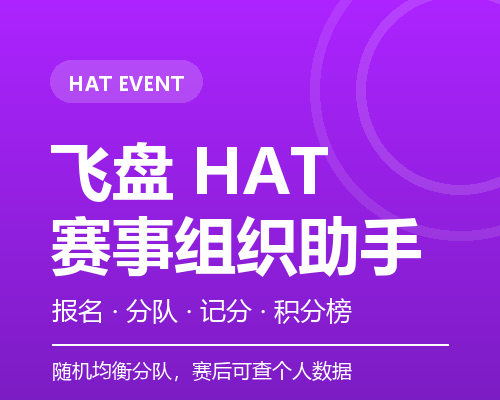
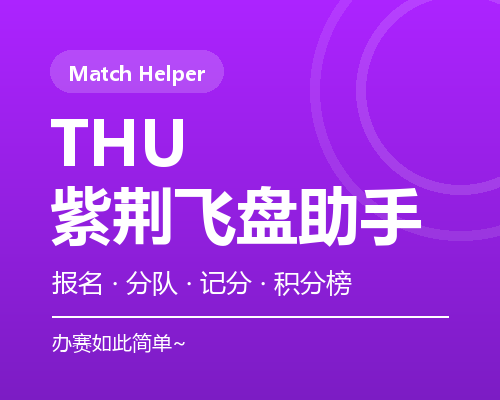
chore(share): 更新分享封面文案为「THU 紫荆飞盘助手」

Changed region(s): [[0.09, 0.3, 0.9, 0.96], [0.09, 0.12, 0.45, 0.27], [0.39, 0.9, 0.72, 0.96]]

diff --git a/scripts/make-share-image.py b/scripts/make-share-image.py
@@ -51,9 +51,9 @@ tag_font = ImageFont.truetype(BOLD, 20)
 small_font = ImageFont.truetype(REGULAR, 20)
 
 # 左上角小标签：白色半透明胶囊 + 白字
-tag = "HAT EVENT"
+tag = "Match Helper"
 tw = draw.textlength(tag, font=tag_font)
-pill = [50, 60, 50 + tw + 36, 60 + 42]
+pill = [50, 50, 50 + tw + 36, 50 + 42]
 layer, d = overlay()
 d.rounded_rectangle(pill, radius=21, fill=(255, 255, 255, 46))
 img = Image.alpha_composite(img, layer)
@@ -61,15 +61,15 @@ draw = ImageDraw.Draw(img)
 draw.text((pill[0] + 18, pill[1] + 9), tag, font=tag_font, fill=WHITE + (255,))
 
 # 主标题
-draw.text((50, 128), "飞盘 HAT", font=title_font, fill=WHITE + (255,))
-draw.text((50, 202), "赛事组织助手", font=title_font, fill=WHITE + (255,))
+draw.text((50, 100), "THU", font=title_font, fill=WHITE + (255,))
+draw.text((50, 172), "紫荆飞盘助手", font=title_font, fill=WHITE + (255,))
 
 # 副标题：一句话说清这个小程序干什么
-draw.text((52, 292), "报名 · 分队 · 记分 · 积分榜", font=sub_font, fill=(255, 255, 255, 225))
+draw.text((52, 264), "报名 · 分队 · 记分 · 积分榜", font=sub_font, fill=(255, 255, 255, 225))
 
 # 底部细线 + 一行补充说明
-draw.line([(52, 344), (W - 52, 344)], fill=(255, 255, 255, 70), width=2)
-draw.text((52, 356), "随机均衡分队，赛后可查个人数据", font=small_font,
+draw.line([(52, 316), (W - 52, 316)], fill=(255, 255, 255, 70), width=2)
+draw.text((52, 328), "办赛如此简单~", font=small_font,
           fill=(255, 255, 255, 170))
 
 out = r"E:\HAT_helper\miniprogram\images\share.png"
